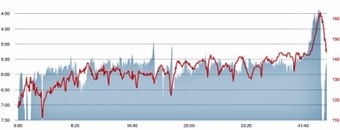
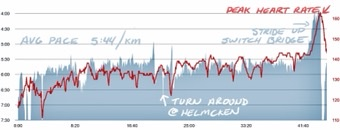
Training log update

diff --git a/content/traininglog/20220206-ironman2022-29weeksout.md b/content/traininglog/20220206-ironman2022-29weeksout.md
@@ -137,10 +137,12 @@ Night sweats woke me up at 0140.  Despite that, I **felt good** in the pool this
 ### Tomorrow's Run Today
 Lucky me.  Yauki sends a "let's run" text while I was on my weekly with Elliot.  I got a green light for 40 minutes and at 1600, shoes were on and I was out the door to meet the Tuesday Night Crew on a Thursday.
 
-Nice and simple out and back on _The Goose_.  I was feeling fatigue in my quads to start but after a mile or so, I fell into a nice groove @5:30/km pace.  I am not sure how my request for 40 minutes got translated into 8km but there was a 1 km build from _Seaton_ to the top of the _Switch Bridge_.  First to crest the bridge but I didn't run the downhill.
+Nice and simple out and back on _The Goose_.  I was feeling fatigue in my quads to start but after a mile or so, I fell into a nice groove @5:44/km pace.
+
+I am not sure how my request for an easy 40 minutes got stretched to 8km and a 1 km build from _Seaton_ to the top of the _Switch Bridge_.  First to crest the bridge but I didn't run the downhill.
 
 ![Run](/assets/jpg/run-20220210.jpeg)
-Having this kind of a day, swimming, biking and a run is what I am thankful for.
+Having this kind of a day, swimming, biking and a run is what **I am thankful** for.
 
 <!---->
 ## FRIDAY FEB 11
